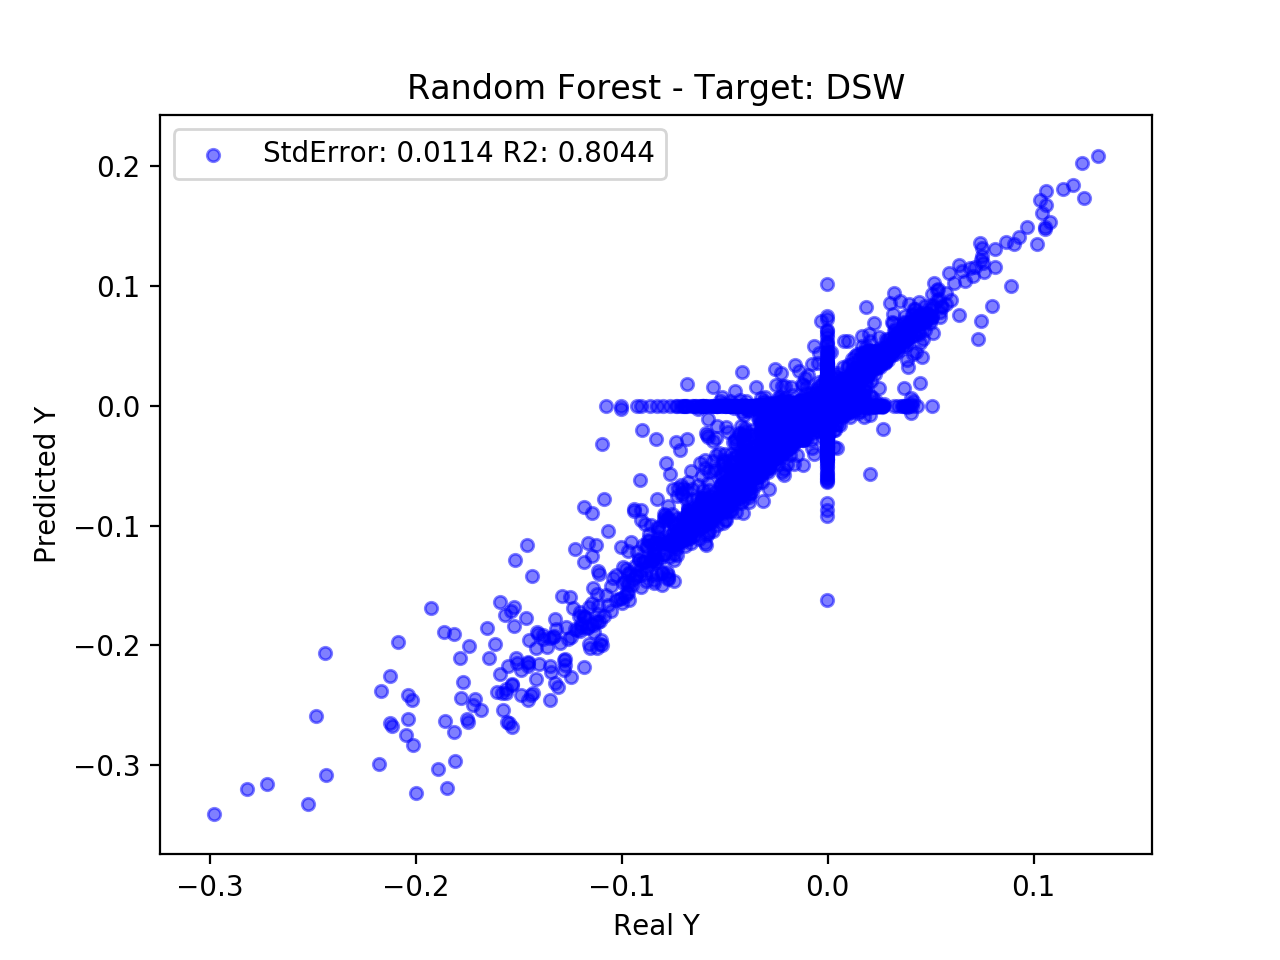
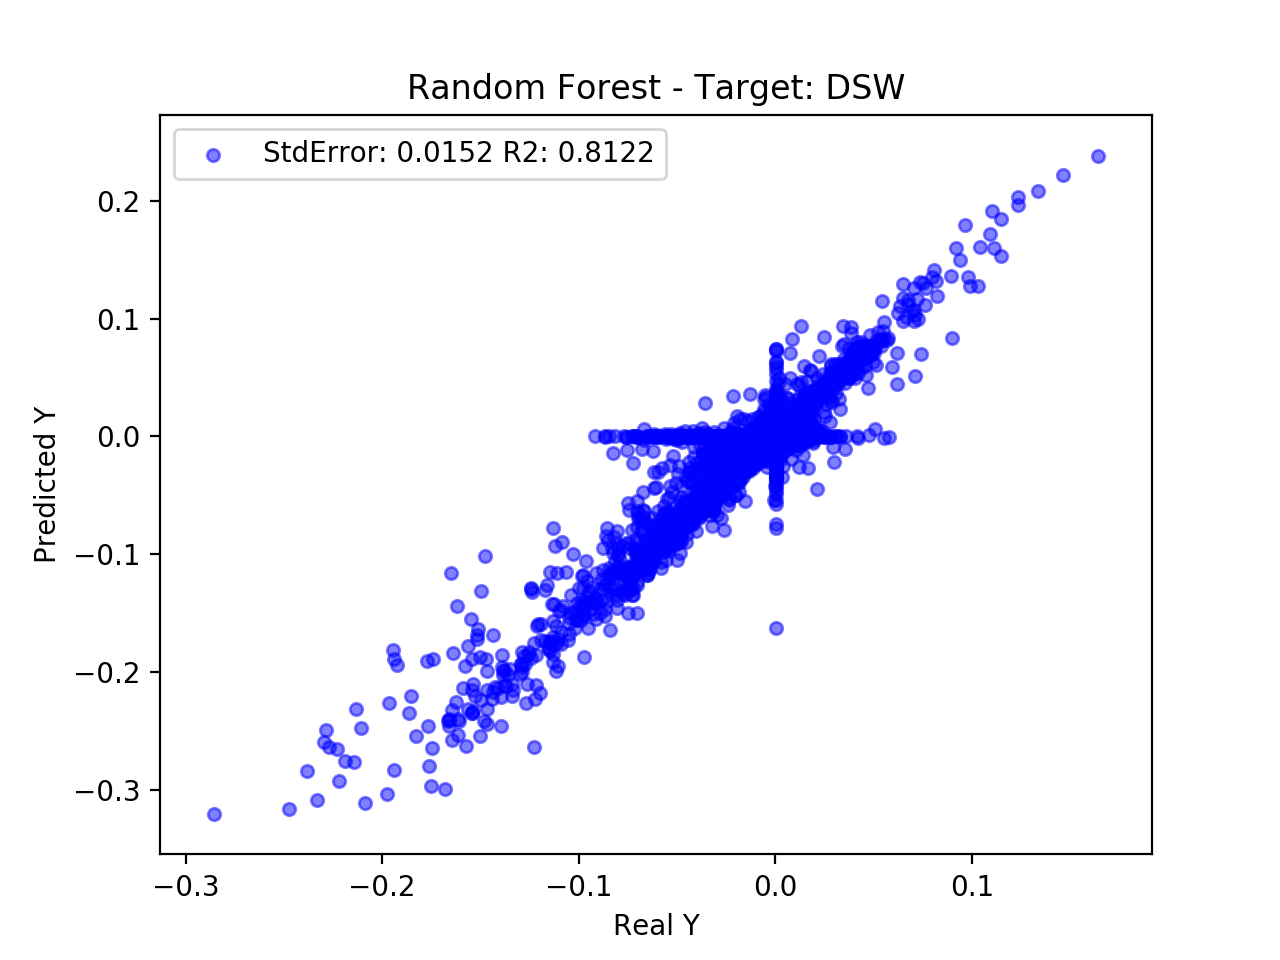
fig

diff --git a/main.py b/main.py
@@ -139,8 +139,8 @@ class Main(object):
 
 
         #np.c_[x,y, porosity, porosity_effective, ntg, sw_base, sg_base, dsg, dsw];
-        self.features_matrix_dsw = np.c_[self.int_dRMS_10];#np.c_[self.x, self.y,self.int_dRMS_10];
-        self.features_matrix_dsg = np.c_[self.int_dRMS_10];#np.c_[self.x, self.y,self.int_dRMS_10];
+        self.features_matrix_dsw = np.c_[self.x, self.y,self.int_dRMS_10]; #np.c_[self.int_dRMS_10];#
+        self.features_matrix_dsg = np.c_[self.x, self.y,self.int_dRMS_10]; #np.c_[self.int_dRMS_10];#
 
 
         #CorrelationAnalysis(attributes_list, attributes_matrix, attributes_names);
@@ -183,8 +183,8 @@ class Main(object):
 
 
         #np.c_[x,y, porosity, porosity_effective, ntg, sw_base, sg_base, dsg, dsw];
-        self.features_matrix_dsw = np.c_[self.int_dRMS_20];#np.c_[self.x, self.y,self.int_dRMS_20];
-        self.features_matrix_dsg = np.c_[self.int_dRMS_20];#np.c_[self.x, self.y,self.int_dRMS_20];
+        self.features_matrix_dsw = np.c_[self.x, self.y,self.int_dRMS_20];#np.c_[self.int_dRMS_20];#
+        self.features_matrix_dsg = np.c_[self.x, self.y,self.int_dRMS_20];#np.c_[self.int_dRMS_20];#
 
 
         #CorrelationAnalysis(attributes_list, attributes_matrix, attributes_names);
